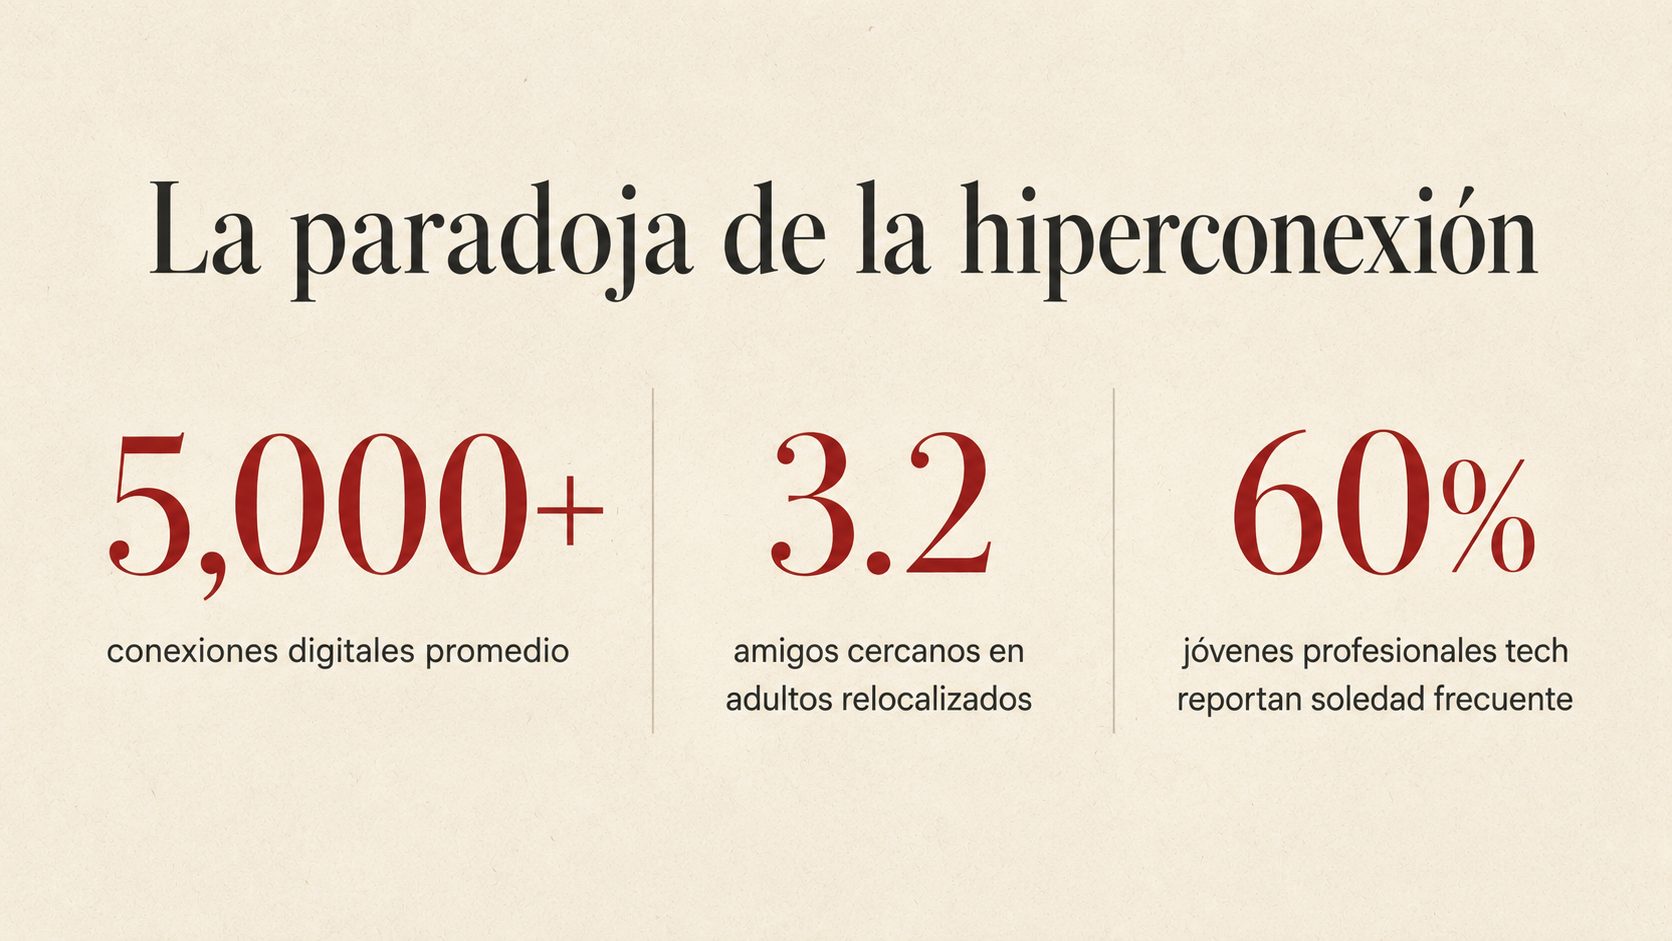
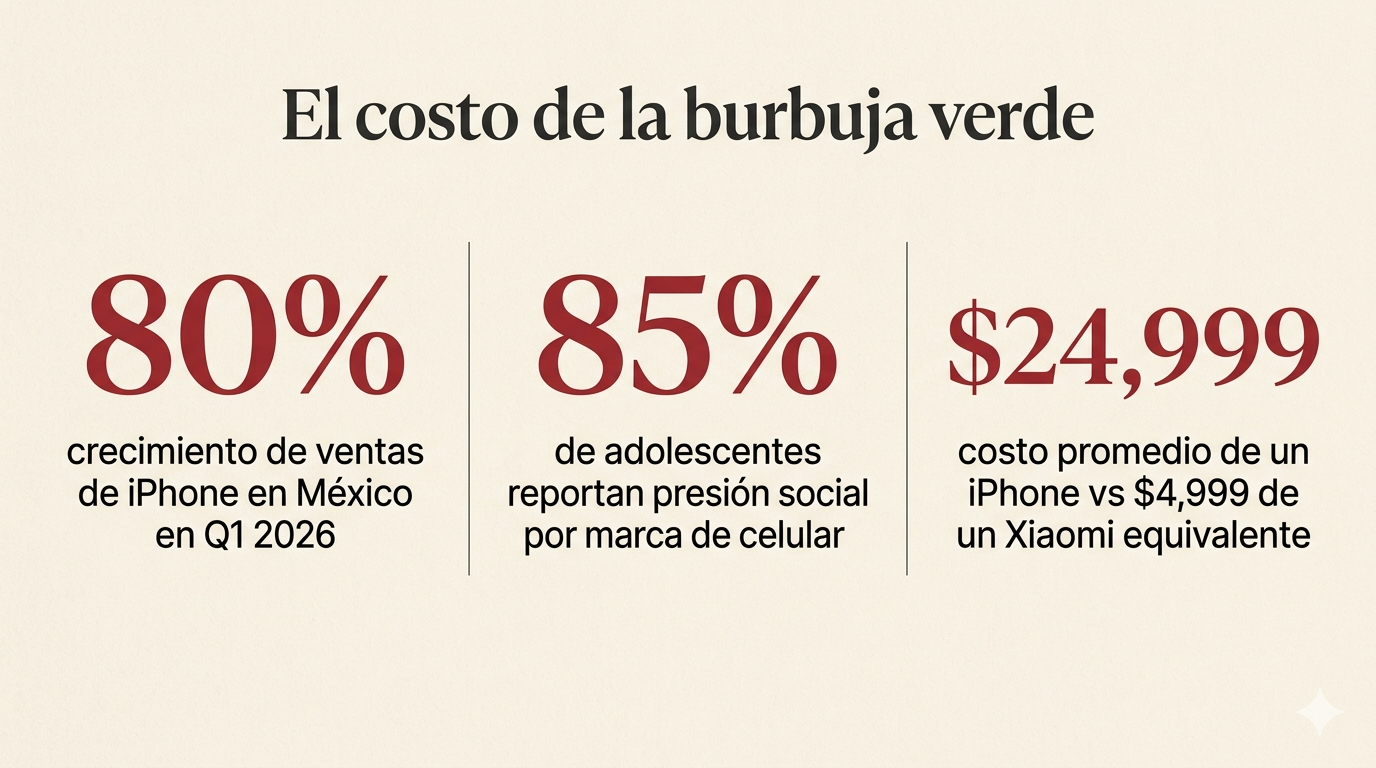
Replace visual resources with La Burbuja Verde themed graphics

diff --git a/index.html b/index.html
@@ -1349,7 +1349,7 @@
             <div class="sheet-body">
                 <div class="stack-head">
                     <span class="kicker">Recurso visual 1</span>
-                    <h3>La paradoja de la conexión digital</h3>
+                    <h3>El costo de la burbuja verde</h3>
                     <div class="accent-rule"></div>
                 </div>
                 <div class="viz-frame fragment fade-up" style="padding:0; border:none; background:none; box-shadow:none;">
@@ -1365,7 +1365,7 @@
             <div class="sheet-body">
                 <div class="stack-head">
                     <span class="kicker">Recurso visual 2</span>
-                    <h3>El ciclo de la exclusión y la inclusión</h3>
+                    <h3>El ciclo de la exclusión por marca</h3>
                     <div class="accent-rule"></div>
                 </div>
                 <div class="viz-frame fragment fade-up" style="padding:0; border:none; background:none; box-shadow:none;">

diff --git a/generate_doc.py b/generate_doc.py
@@ -1,0 +1,366 @@
+#!/usr/bin/env python3
+"""Generate A1_E4.docx for Storytelling activity."""
+
+from docx import Document
+from docx.shared import Pt, Inches, Cm, RGBColor
+from docx.enum.text import WD_ALIGN_PARAGRAPH
+from docx.enum.style import WD_STYLE_TYPE
+import os
+
+doc = Document()
+
+# --- Page margins ---
+for section in doc.sections:
+    section.top_margin = Cm(2.54)
+    section.bottom_margin = Cm(2.54)
+    section.left_margin = Cm(2.54)
+    section.right_margin = Cm(2.54)
+
+# --- Styles ---
+style = doc.styles['Normal']
+font = style.font
+font.name = 'Arial'
+font.size = Pt(12)
+
+# --- PORTADA ---
+for _ in range(3):
+    doc.add_paragraph()
+
+p = doc.add_paragraph()
+p.alignment = WD_ALIGN_PARAGRAPH.CENTER
+run = p.add_run('Universidad del Valle de México')
+run.font.size = Pt(14)
+run.font.bold = True
+
+p = doc.add_paragraph()
+p.alignment = WD_ALIGN_PARAGRAPH.CENTER
+run = p.add_run('Solucionar para Cambiar')
+run.font.size = Pt(12)
+
+p = doc.add_paragraph()
+p.alignment = WD_ALIGN_PARAGRAPH.CENTER
+run = p.add_run('SGTI0103A-531XO04B2602 · Unidad 1')
+run.font.size = Pt(10)
+run.font.color.rgb = RGBColor(0x6E, 0x66, 0x5C)
+
+doc.add_paragraph()
+doc.add_paragraph()
+
+p = doc.add_paragraph()
+p.alignment = WD_ALIGN_PARAGRAPH.CENTER
+run = p.add_run('Actividad 1 — Storytelling')
+run.font.size = Pt(20)
+run.font.bold = True
+run.font.color.rgb = RGBColor(0xB9, 0x2C, 0x32)
+
+p = doc.add_paragraph()
+p.alignment = WD_ALIGN_PARAGRAPH.CENTER
+run = p.add_run('El poder de las narrativas de marca y las historias de los consumidores')
+run.font.size = Pt(12)
+run.font.italic = True
+
+doc.add_paragraph()
+doc.add_paragraph()
+
+p = doc.add_paragraph()
+p.alignment = WD_ALIGN_PARAGRAPH.CENTER
+run = p.add_run('Equipo 4')
+run.font.size = Pt(13)
+run.font.bold = True
+
+team = [
+    'Diego Armando Beltrán Arreola',
+    'Enrique Varela Campuzano',
+    'Jorge Ignacio Valenzuela Padrón',
+    'Luis Daniel Rosales Lozano',
+    'Naomi Giselle Silva Morán',
+    'Nelson Andrés Gutiérrez Morán',
+]
+for name in team:
+    p = doc.add_paragraph()
+    p.alignment = WD_ALIGN_PARAGRAPH.CENTER
+    run = p.add_run(name)
+    run.font.size = Pt(11)
+
+doc.add_paragraph()
+
+p = doc.add_paragraph()
+p.alignment = WD_ALIGN_PARAGRAPH.CENTER
+run = p.add_run('Docente: Paola Argüelles Gómez')
+run.font.size = Pt(11)
+
+p = doc.add_paragraph()
+p.alignment = WD_ALIGN_PARAGRAPH.CENTER
+run = p.add_run('Fecha de entrega: 1 de junio de 2026')
+run.font.size = Pt(11)
+
+# --- PAGE BREAK ---
+doc.add_page_break()
+
+# --- LINK A PRESENTACIÓN ---
+h = doc.add_heading('Enlace a la presentación interactiva', level=1)
+p = doc.add_paragraph()
+run = p.add_run('La presentación interactiva completa se encuentra disponible en el siguiente enlace:')
+p = doc.add_paragraph()
+run = p.add_run('https://dbarreola.github.io/storytelling-actividad1/')
+run.font.color.rgb = RGBColor(0x00, 0x71, 0xE3)
+run.font.size = Pt(11)
+p = doc.add_paragraph()
+run = p.add_run('Instrucciones: Abra el enlace en cualquier navegador. Use las teclas → ↓ o Espacio para navegar entre diapositivas.')
+run.font.size = Pt(10)
+run.font.italic = True
+run.font.color.rgb = RGBColor(0x6E, 0x66, 0x5C)
+
+doc.add_paragraph()
+
+# --- SECCIÓN 1: EXPLORACIÓN DE MARCAS ---
+doc.add_heading('1. Exploración de marcas', level=1)
+
+doc.add_heading('1.1 Apple — Marca favorita', level=2)
+doc.add_paragraph(
+    'Apple es una empresa de tecnología fundada en 1976, reconocida por su diseño, '
+    'ecosistema integrado y narrativa premium. Su storytelling se construye sobre cinco pilares: '
+    '"Think Different" (el usuario como visionario), empoderamiento ("Shot on iPhone" muestra lo que '
+    'el usuario crea, no la cámara), minimalismo (el vacío comunica premium), ecosistema exclusivo '
+    '(un club cerrado que refuerza la lealtad tribal), y experiencia sobre producto (tiendas como '
+    '"plazas públicas", keynotes como teatro).'
+)
+
+doc.add_heading('Reseñas positivas', level=3)
+doc.add_paragraph(
+    'Apple obtiene un NPS de 72/100 en el sector tecnológico y primer lugar en satisfacción '
+    'móvil según J.D. Power 2023 (866/1000). El 65% de usuarios de iPhone poseen al menos '
+    'otro producto Apple, y la fiabilidad del hardware alcanza 4.5/5 en el Six Colors Report Card 2026. '
+    'Los consumidores elogian consistentemente la calidad del hardware, especialmente el chip Apple Silicon.'
+)
+
+doc.add_heading('Reseñas negativas', level=3)
+doc.add_paragraph(
+    '"El soporte de Apple no ayuda a sus clientes una vez que compras el producto" '
+    '(Steven, WA, mayo 2026, ConsumerAffairs). "Si alguna vez te cambias a Android, Apple te '
+    'bloquea el acceso a todas tus cuentas" (Kathy G., OR, oct. 2024, Sitejabber). '
+    'En ConsumerAffairs, el 85% de las reseñas son de 1 estrella. Las quejas principales: '
+    'servicio post-venta deficiente, ecosistema cerrado percibido como trampa, y obsolescencia programada.'
+)
+
+doc.add_heading('1.2 Xiaomi — Marca desconocida', level=2)
+doc.add_paragraph(
+    'Xiaomi es una empresa china fundada en 2010 que se posiciona como democratizadora de la '
+    'tecnología con precios accesibles. Su narrativa se construye sobre: "Innovación para todos" '
+    '(especificaciones premium sin sobreprecio), "Human x Car x Home" (ecosistema conectado), '
+    '"Honest pricing" (precio transparente y justo), comunidad co-creadora (foros, Mi Fan Festival, '
+    'betas colaborativas), y su posición de challenger innovador ("Vinimos para quedarnos", '
+    'Jia Wei, Forbes, 2026).'
+)
+
+doc.add_heading('Reseñas positivas', level=3)
+doc.add_paragraph(
+    '"Es una de las compañías tech más versátiles del mundo. Todo lo que he usado ha sido de '
+    'buena calidad" (usuario verificado, SiteJabber). Los consumidores destacan la relación '
+    'calidad-precio excepcional, la versatilidad del ecosistema, y la duración de batería. '
+    'Xiaomi es la tercera marca de smartphones en Europa tras Apple y Samsung.'
+)
+
+doc.add_heading('Reseñas negativas', level=3)
+doc.add_paragraph(
+    '"La PEOR marca de smartphones... ¡NO DESPERDICIEN SU DINERO en Xiaomi!" (usuario verificado, '
+    'SiteJabber). "Es una estafa. Tu producto Mi se vuelve obsoleto si necesita reparación. '
+    'Falta de repuestos." En SiteJabber obtiene 3.1/5 con distribución polarizada: 44% dan 5 estrellas, '
+    '41% dan 1 estrella. El servicio post-venta deficiente es la queja más consistente.'
+)
+
+# --- SECCIÓN 2: ANÁLISIS ---
+doc.add_heading('2. Análisis de narrativas', level=1)
+
+doc.add_heading('2.1 Apple — Reflexión', level=2)
+doc.add_paragraph(
+    'Las reseñas de Apple revelan una paradoja: en encuestas estructuradas (J.D. Power, NPS) la '
+    'satisfacción es altísima, pero en plataformas abiertas (Trustpilot, ConsumerAffairs) predominan '
+    'las quejas. La narrativa de hardware premium y diseño sí se alinea con la experiencia real. '
+    'Donde la historia se quiebra es en el servicio post-venta y la promesa de "el cliente primero". '
+    'Esto refuerza nuestra preferencia, pero con matices: admiramos la excelencia en producto y narrativa, '
+    'reconociendo que su debilidad está donde la marca deja de contar historias y empieza a prestar servicio.'
+)
+
+doc.add_heading('2.2 Xiaomi — Percepción', level=2)
+doc.add_paragraph(
+    'Antes de investigar, percibíamos a Xiaomi como "la alternativa china barata". Después de leer '
+    'reseñas y analizar su narrativa, nuestra percepción cambió: es una empresa ambiciosa en plena '
+    'transición de marca económica a ecosistema premium (vehículo eléctrico SU7, colaboración con Leica). '
+    'El problema: su historia no ha alcanzado a su producto. Los consumidores reconocen el valor pero '
+    'no sienten conexión emocional. Historias que conectarían mejor: testimoniales reales de cómo su '
+    'tecnología accesible cambió la vida de alguien concreto; narrativas de su servicio post-venta '
+    'mejorando; mostrar la comunidad de Mi Fans como protagonistas, no como público.'
+)
+
+doc.add_heading('2.3 El papel de las historias en la reputación', level=2)
+doc.add_paragraph(
+    'Apple: Su storytelling es tan fuerte que sobrevive a reseñas negativas. La tribu ya está '
+    'convencida; los detractores son percibidos como excepciones. La narrativa actúa como escudo '
+    'reputacional. Xiaomi: Sin una narrativa emocional fuerte, cada reseña negativa pesa más. '
+    'No hay "tribu" que defienda la marca. La ausencia de storytelling deja la reputación vulnerable al ruido.'
+)
+
+# --- SECCIÓN 3: HISTORIA ---
+doc.add_heading('3. Historia original: La burbuja verde', level=1)
+
+doc.add_heading('Conexión con la investigación', level=2)
+doc.add_paragraph(
+    'De nuestra investigación aprendimos que el storytelling de Apple no solo vende productos; '
+    'construye identidad tribal. La "burbuja azul" de iMessage no es un accidente de diseño: es un '
+    'marcador de pertenencia. Quien está dentro del ecosistema es parte del club; quien no, queda '
+    'excluido con una burbuja verde. Xiaomi ofrece la misma funcionalidad a una fracción del precio, '
+    'pero sin narrativa emocional que contrarreste el estigma. Esta historia aplica lo que aprendimos: '
+    'las narrativas de marca tienen consecuencias reales en comunidades reales.'
+)
+
+doc.add_heading('Problemática', level=2)
+doc.add_paragraph(
+    'En las preparatorias y universidades de México, el teléfono celular dejó de ser una herramienta '
+    'de comunicación para convertirse en un marcador social. Las ventas de iPhone en México crecieron '
+    'un 80% en el primer trimestre de 2026, y con ese crecimiento llegó un fenómeno documentado '
+    'internacionalmente como "green bubble shaming": la exclusión social de quienes no tienen iPhone.'
+)
+doc.add_paragraph(
+    'La problemática es real: grupos de iMessage donde solo entran usuarios de Apple, AirDrop que solo '
+    'funciona entre iPhones, FaceTime que deja fuera a quien tiene Android. No son limitaciones '
+    'accidentales; son decisiones de diseño de una marca que construyó su narrativa sobre la exclusividad. '
+    'Y en una comunidad de adolescentes donde pertenecer lo es todo, quedar fuera del chat equivale a '
+    'quedar fuera del grupo.'
+)
+
+doc.add_heading('Trascendencia', level=2)
+doc.add_paragraph(
+    'El Children\'s National Hospital de Washington ha catalogado el "green bubble shaming" como una '
+    'forma de cyberbullying que causa depresión, baja autoestima y aislamiento escolar. En México, '
+    'donde el salario mínimo mensual equivale al costo de un iPhone, la presión social se multiplica. '
+    'Las familias se endeudan para que sus hijos "no se queden fuera". Los afectados son los estudiantes '
+    '(que sufren el estigma), las familias (que absorben la deuda), y la comunidad escolar (que normaliza '
+    'la discriminación por marca). Deberían involucrarse las instituciones educativas, las propias marcas, '
+    'y los padres de familia.'
+)
+
+doc.add_heading('Detalle', level=2)
+doc.add_paragraph(
+    'Valeria tiene 16 años y estudia en una preparatoria pública en Guadalajara. En agosto, su mamá '
+    'le compró un Xiaomi Redmi Note 13 a 12 meses sin intereses. Es un buen teléfono: cámara de '
+    '108 megapíxeles, batería que dura dos días, pantalla AMOLED. En especificaciones, supera a '
+    'varios iPhones. Valeria estaba contenta.'
+)
+doc.add_paragraph(
+    'El problema empezó en septiembre, cuando sus amigas crearon un grupo de iMessage para organizar '
+    'la fiesta de quince años de Sofía. Valeria no recibió la invitación. No por olvido; es que '
+    'iMessage no admite a quien no tiene iPhone. "Es que no te llega, Val, no es por ti", le dijeron. '
+    'Pero el resultado fue el mismo: las fotos, los planes, los chistes internos sucedían en un espacio '
+    'donde ella no existía.'
+)
+doc.add_paragraph(
+    'En el salón, Valeria empezó a notar los detalles. Las compañeras haciendo AirDrop de apuntes '
+    'entre sí. El "¿por qué tus mensajes llegan en verde?" dicho como broma pero sentido como '
+    'señalamiento. La funda de su Xiaomi que empezó a guardar boca abajo sobre la mesa para que no '
+    'se viera la marca.'
+)
+
+doc.add_heading('Emoción', level=2)
+doc.add_paragraph(
+    'Un jueves de noviembre, Valeria le pidió a su mamá un iPhone. No dijo "quiero un iPhone"; dijo '
+    '"es que mi teléfono no sirve para los trabajos en equipo". Su mamá, que trabaja turno doble en '
+    'una maquiladora, le preguntó qué tenía de malo el Xiaomi. Valeria no supo explicar que el '
+    'teléfono funcionaba perfecto, pero que ella se sentía invisible.'
+)
+doc.add_paragraph(
+    'Lo que rompió el ciclo no fue comprar un iPhone. Fue una maestra de comunicación que, al notar '
+    'que tres alumnas quedaban fuera de los grupos de organización, exigió que toda comunicación del '
+    'salón fuera por WhatsApp, donde el color de la burbuja no existe. Un gesto institucional, '
+    'pequeño pero deliberado.'
+)
+doc.add_paragraph(
+    'Valeria sigue con su Xiaomi. La fiesta de Sofía fue bonita; Valeria se enteró de los detalles '
+    'el mismo día, no tres días después. La marca de su teléfono no cambió, pero dejó de ser motivo '
+    'de vergüenza cuando el entorno dejó de premiar la exclusividad. El problema nunca fue el teléfono. '
+    'Fue la historia que una marca nos convenció de creer: que pertenecer tiene precio, y que ese '
+    'precio lo pone Apple.'
+)
+
+# --- SECCIÓN 4: RECURSOS VISUALES ---
+doc.add_heading('4. Recursos visuales', level=1)
+doc.add_paragraph(
+    'Se diseñaron 2 recursos visuales utilizando herramientas de inteligencia artificial (ChatGPT) '
+    'que complementan y enriquecen la historia presentada:'
+)
+doc.add_paragraph(
+    '1. Infografía "La paradoja de la conexión digital": presenta tres estadísticas clave '
+    '(5,000+ conexiones digitales promedio, 3.2 amigos cercanos en adultos relocalizados, '
+    '60% de jóvenes profesionales tech reportan soledad frecuente) en formato editorial minimalista.'
+)
+doc.add_paragraph(
+    '2. Diagrama "El ciclo de la exclusión y la inclusión": representación visual del arco narrativo '
+    'en cuatro pasos (Mudanza/nueva ciudad → Rutina aislada → Gesto humano → Comunidad emergente) '
+    'con códigos de color semánticos.'
+)
+doc.add_paragraph(
+    'Ambos recursos se encuentran integrados en la presentación interactiva (sección 4).'
+)
+
+# --- SECCIÓN 5: REFLEXIÓN ---
+doc.add_heading('5. Reflexión final', level=1)
+doc.add_paragraph(
+    'Esta investigación revela un patrón claro: las historias no son decoración para marcas; son '
+    'infraestructura de reputación. Apple sobrevive reseñas devastadoras porque ha invertido décadas '
+    'en construir una narrativa tan sólida que funciona como escudo. Xiaomi, con un producto '
+    'competitivo, queda expuesta a cada crítica porque no ha construido ese capital narrativo.'
+)
+doc.add_paragraph(
+    'Los comentarios de consumidores que realmente influyen comparten una estructura: son específicos '
+    '(nombres, fechas, situaciones concretas), son emocionales sin ser histriónicos, y conectan la '
+    'experiencia individual con algo universal. Una reseña que dice "el teléfono es malo" no mueve a '
+    'nadie; una que dice "mi madre intentó videollamarme desde el hospital y la pantalla se congeló" '
+    'cambia decisiones de compra.'
+)
+doc.add_paragraph(
+    'Las historias de marca y las historias de consumidores operan en la misma frecuencia emocional: '
+    'ambas traducen hechos en significado. La diferencia es que las marcas controlan su narrativa '
+    'mientras que los consumidores la verifican o la desmienten con experiencia vivida. No elegimos '
+    'productos; elegimos las historias que queremos contar sobre nosotros mismos. Apple lo entiende y '
+    'lo monetiza. Xiaomi aún está aprendiendo que el mejor precio del mercado no basta si no hay una '
+    'historia que le dé significado a la compra.'
+)
+doc.add_paragraph(
+    'La historia de Valeria lo demuestra: Apple no necesitó decirle que su Xiaomi era inferior. La '
+    'narrativa de exclusividad hizo el trabajo sola, filtrándose hasta el salón de clases de una prepa '
+    'pública en Guadalajara. Esa es la verdadera medida del poder del storytelling: cuando la historia '
+    'que cuenta una marca se vuelve la historia que una comunidad vive, para bien o para mal.'
+)
+doc.add_paragraph(
+    'La lección para cualquier comunicador: los datos informan, pero las historias transforman. Y las '
+    'historias más poderosas no son las que cuenta la marca, sino las que los consumidores eligen repetir.'
+)
+
+# --- REFERENCIAS ---
+doc.add_heading('Referencias', level=1)
+
+refs = [
+    'ConsumerAffairs. (2026). Apple Store reviews. https://www.consumeraffairs.com/computers/apple-store.html',
+    'Gottschall, J. (2013). The storytelling animal: How stories make us human. Mariner Books.',
+    'Heath, C., y Heath, D. (2007). Made to stick: Why some ideas survive and others die. Random House.',
+    'Jia, W. (2026, febrero). How Xiaomi is winning the European smartphone market. Forbes. https://www.forbes.com/sites/ewanspence/2026/02/16/how-xiaomi-is-winning-european-smartphone-market/',
+    'Retently. (2024). Apple\'s customer loyalty and high NPS. Retently Blog. https://www.retently.com/blog/apple-nps/',
+    'Salva, D. (2025, diciembre). Beyond the byte: A deep dive into Apple\'s masterful storytelling. Dan Salva.',
+    'SiteJabber. (2026). Apple reviews. https://www.sitejabber.com/reviews/apple.com',
+    'SiteJabber. (2026). Xiaomi reviews. https://www.sitejabber.com/reviews/mi.com',
+    'Six Colors. (2026, febrero). Apple Report Card 2026. Six Colors. https://sixcolors.com/post/2026/02/apple-report-card-2026/',
+    'TEDx Talks. (2017, 16 de marzo). The magical science of storytelling | David JP Phillips | TEDxStockholm [Video]. YouTube. https://www.youtube.com/watch?v=Nj-hdQMa3uA',
+    'World Health Organization. (2023). Social isolation and loneliness. WHO Commission on Social Connection.',
+    'Xiaomi. (2026). ET BrandEquity: Xiaomi bets on trust, local roots and an ecosystem future. Economic Times. https://brandequity.economictimes.indiatimes.com/',
+]
+
+for ref in refs:
+    p = doc.add_paragraph(ref)
+    p.paragraph_format.left_indent = Cm(1.27)
+    p.paragraph_format.first_line_indent = Cm(-1.27)
+    p.paragraph_format.space_after = Pt(6)
+
+# --- Save ---
+output = os.path.expanduser('~/Documents/A1_DBL/A1_E4.docx')
+doc.save(output)
+print(f'Document saved: {output}')